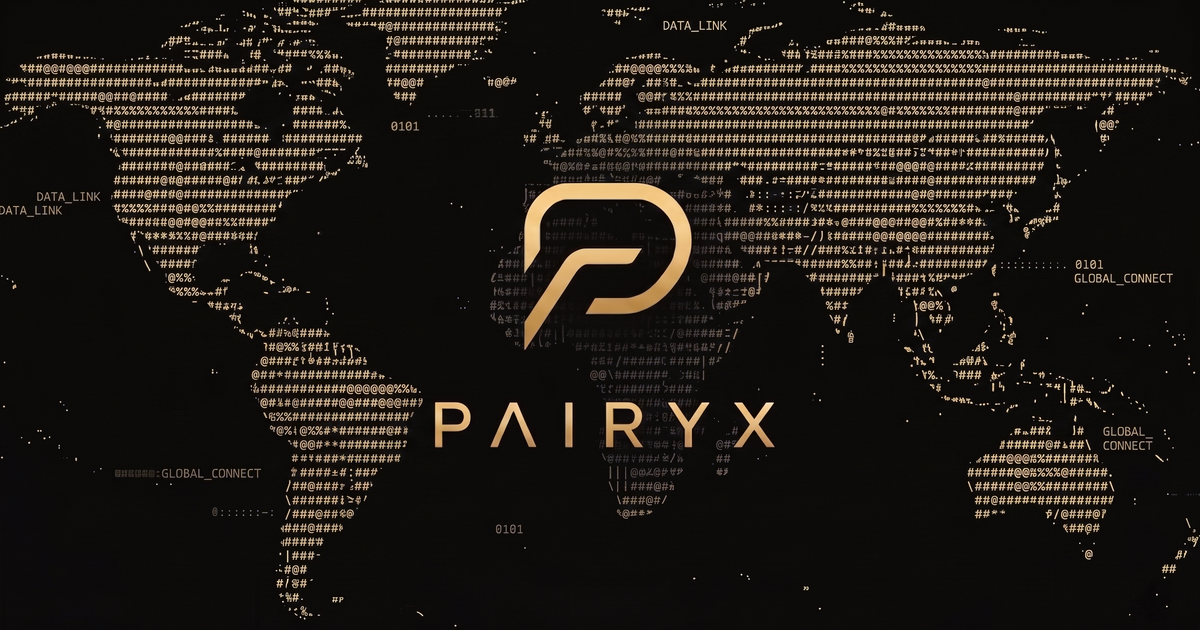
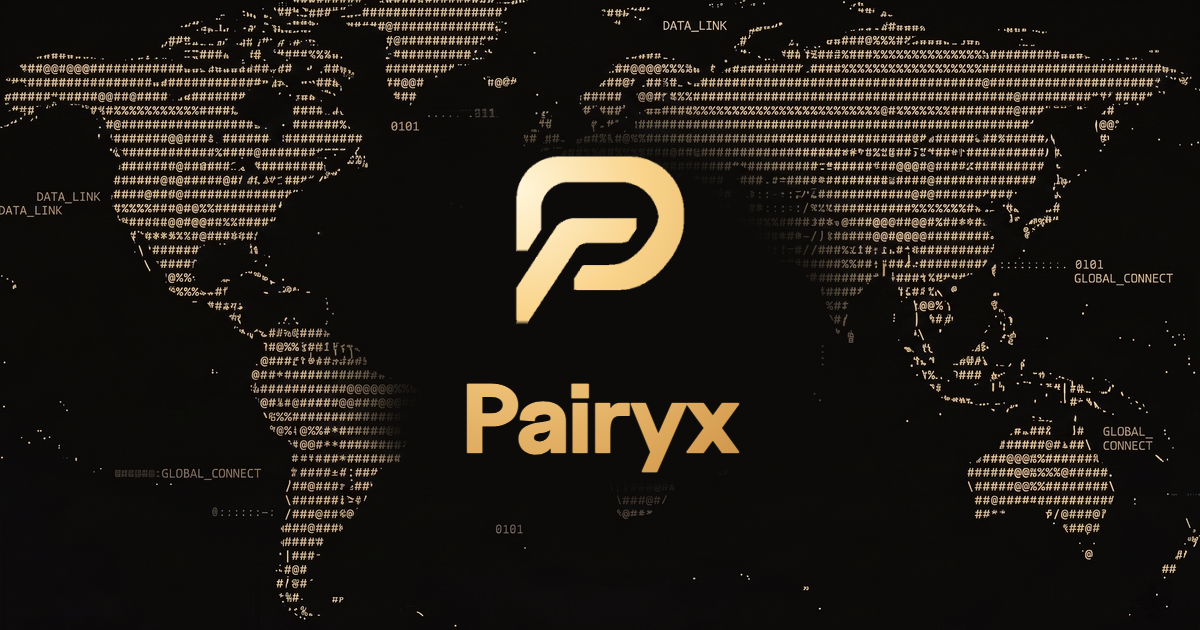
Give the link preview the site's lockup
The preview image's logo now matches the nav: a heavier P and "Pairyx" in
bold Uncut Sans, in the same gold light, drawn over the black world map
after a soft patch of black clears the old thin P and spaced wordmark.

Changed region(s): [[0.2775, 0.1508, 0.74, 0.8143]]

diff --git a/index.html b/index.html
@@ -13,12 +13,12 @@
 <meta property="og:image" content="https://pairyx.co/uploads/pairyx-og-black.png">
 <meta property="og:image:width" content="1200">
 <meta property="og:image:height" content="630">
-<meta property="og:image:alt" content="The gold Pairyx logo over a world map on black">
+<meta property="og:image:alt" content="The Pairyx logo in gold over a world map on black">
 <meta name="twitter:card" content="summary_large_image">
 <meta name="twitter:title" content="The Whole Brand Deal, In One Place">
 <meta name="twitter:description" content="Pairyx matches brands with the creators who fit them, and is building one platform for the whole brand deal, from affiliate links to the legal paperwork.">
 <meta name="twitter:image" content="https://pairyx.co/uploads/pairyx-og-black.png">
-<meta name="twitter:image:alt" content="The gold Pairyx logo over a world map on black">
+<meta name="twitter:image:alt" content="The Pairyx logo in gold over a world map on black">
 <meta name="theme-color" content="#0c0b09">
 <link rel="icon" type="image/png" sizes="512x512" href="/uploads/favicon-bold.png">
 <link rel="apple-touch-icon" href="/uploads/favicon-bold.png">
